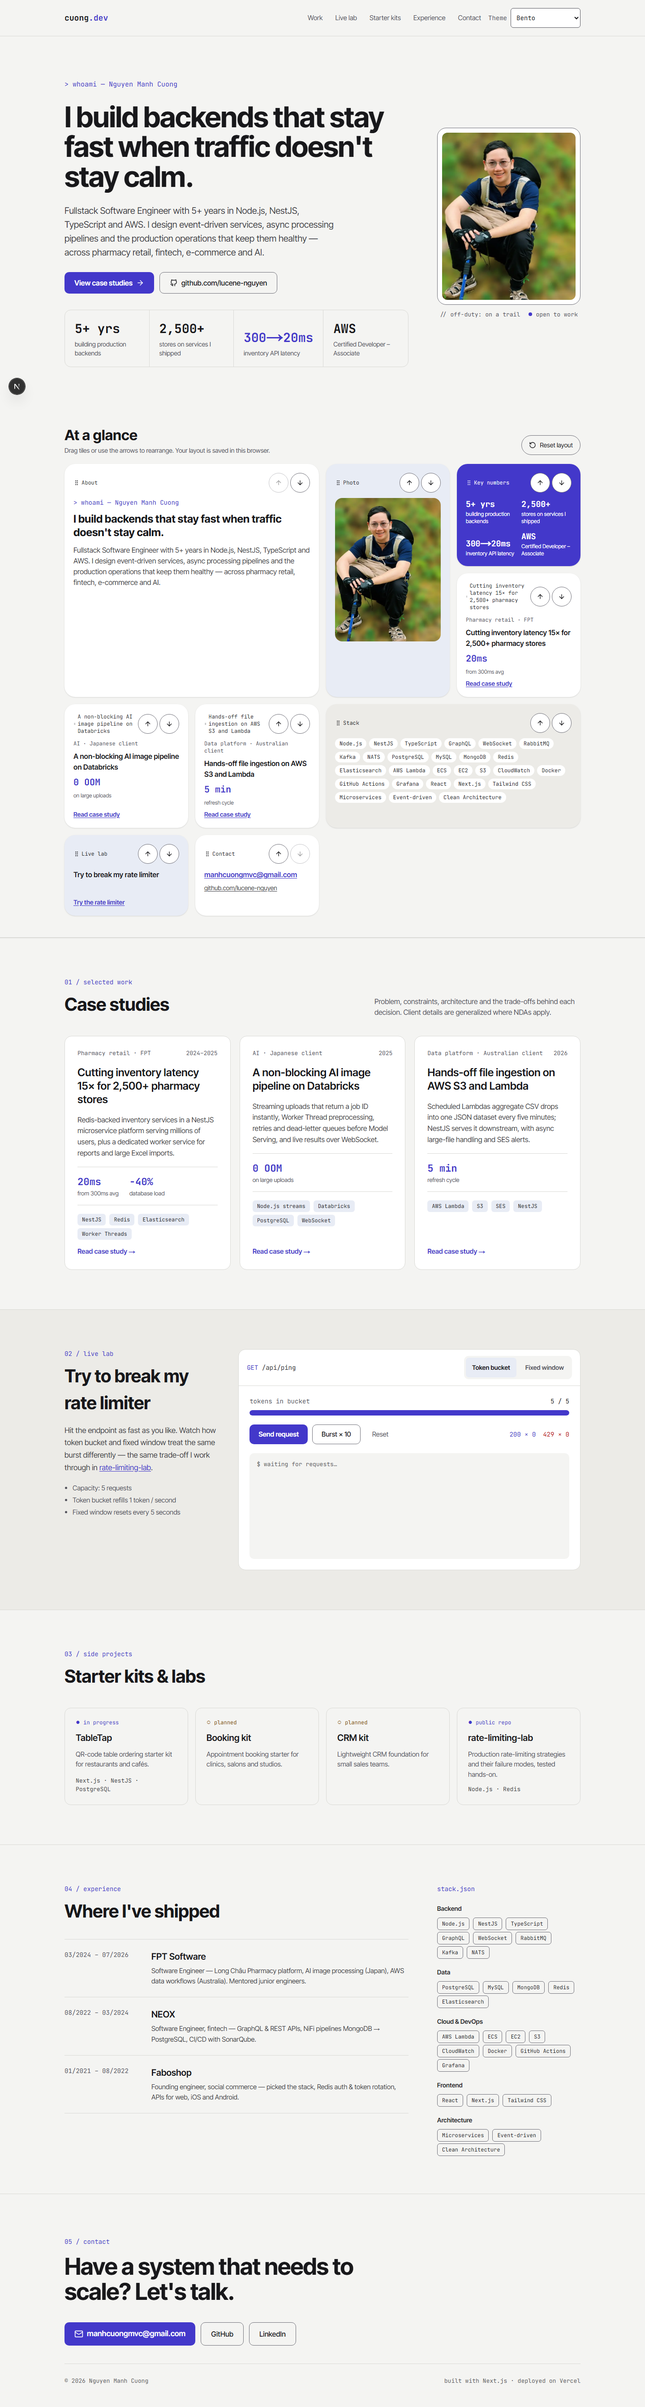
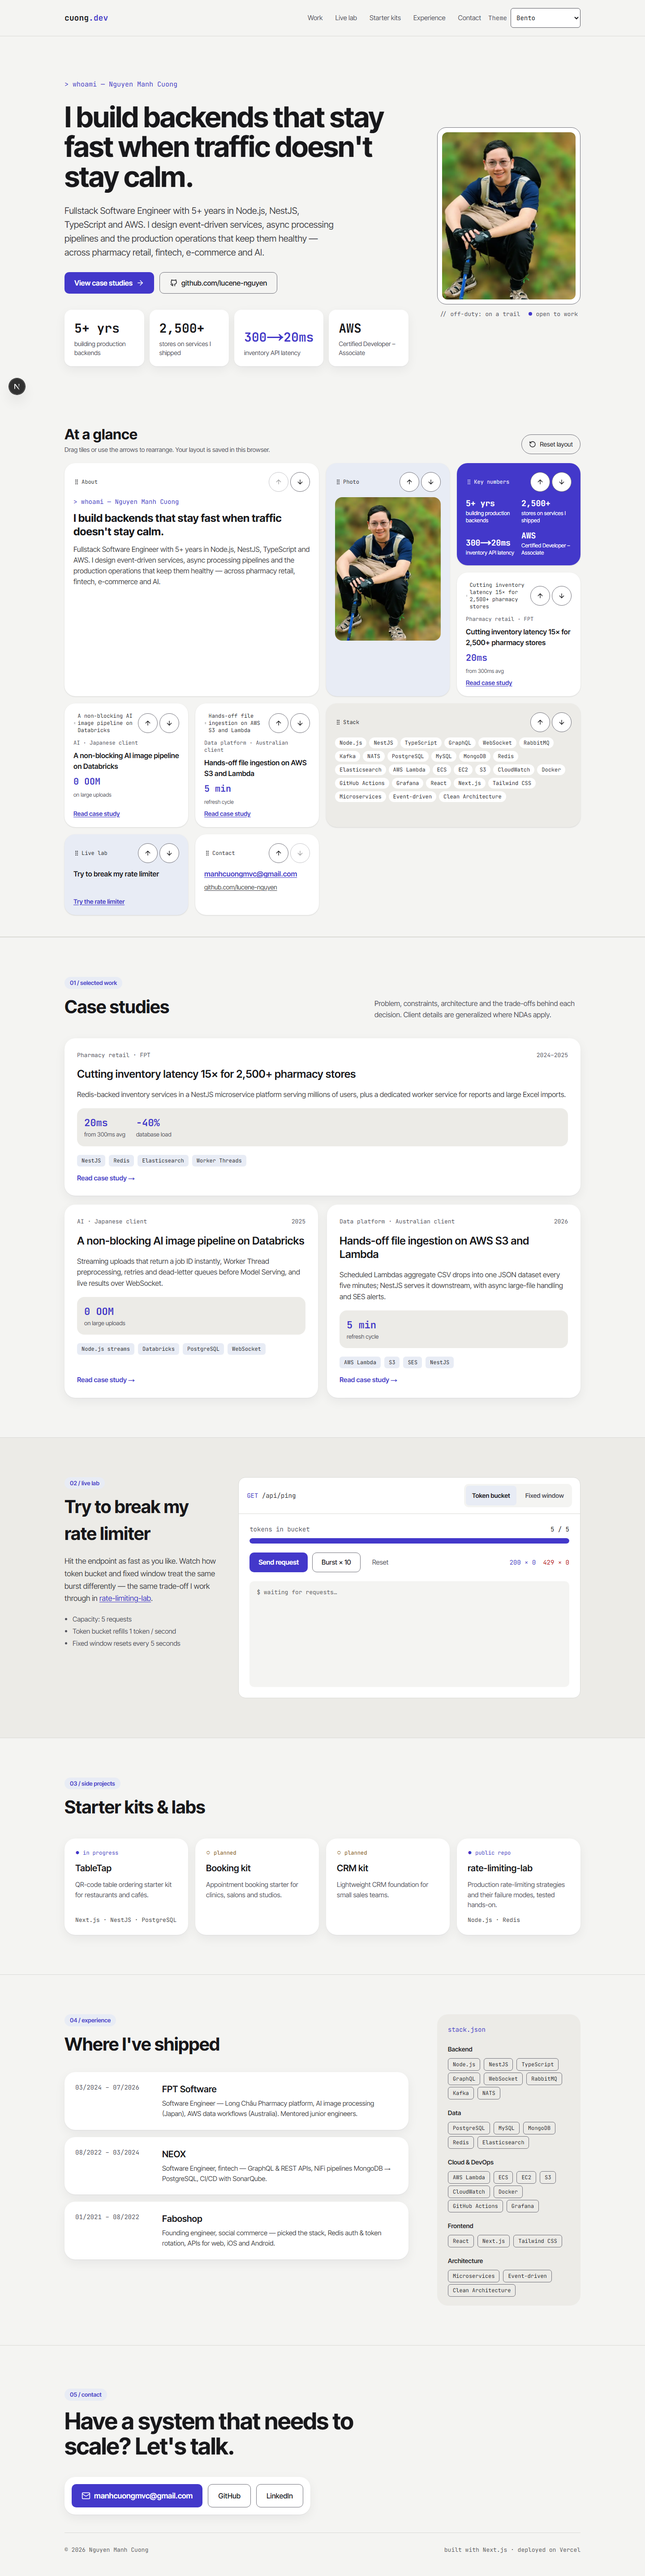
feat(ui): bento restyle - shared sections as tiles, wide feature case study, layout rules; screenshots

diff --git a/themes/bento/bento.css b/themes/bento/bento.css
@@ -1,0 +1,84 @@
+/* Tile language for the shared sections (design-system/portfolio-v3/pages/bento.md › Layout). */
+[data-theme="bento"] [data-part="eyebrow"] {
+  align-self: flex-start;
+  width: fit-content;
+  padding: 4px 12px;
+  border-radius: 999px;
+  background: var(--surface2);
+  font-family: var(--font-sans);
+  font-size: 13px;
+  font-weight: 600;
+}
+
+[data-theme="bento"]
+  :is(
+    [data-part="case-card"],
+    [data-part="kit"] > *,
+    [data-part="role"],
+    [data-part="stack"],
+    [data-part="contact-actions"],
+    [data-part="stat"]
+  ) {
+  border: 0 !important; /* beats the shared divider utilities */
+  border-radius: var(--theme-radius);
+  background: var(--surface);
+  box-shadow:
+    0 1px 2px rgb(24 24 27 / 0.06),
+    0 8px 24px rgb(24 24 27 / 0.06);
+}
+
+/* Case studies: 2-column mosaic, the first study is the wide feature tile. */
+[data-theme="bento"] #work [data-print="cards"] {
+  display: grid;
+  grid-template-columns: minmax(0, 1fr);
+  gap: 20px;
+}
+@media (min-width: 768px) {
+  [data-theme="bento"] #work [data-print="cards"] {
+    grid-template-columns: repeat(2, minmax(0, 1fr));
+  }
+  [data-theme="bento"] #work [data-part="case-card"]:first-child {
+    grid-column: span 2;
+  }
+}
+[data-theme="bento"] [data-part="case-metrics"] {
+  border: 0;
+  padding: 16px;
+  border-radius: 16px;
+  background: var(--bg-alt);
+}
+
+/* Hero key numbers: small tiles instead of a divided strip. */
+[data-theme="bento"] [data-part="stats"] {
+  gap: 12px;
+  border: 0;
+  overflow: visible;
+}
+[data-theme="bento"] [data-part="stat"] {
+  border-radius: 16px;
+}
+
+/* Experience: every role is a tile; the stack column is one bgAlt tile. */
+[data-theme="bento"] [data-part="roles"] {
+  display: flex;
+  flex-direction: column;
+  gap: 16px;
+}
+[data-theme="bento"] [data-part="role"] {
+  padding: 24px;
+}
+[data-theme="bento"] [data-part="stack"] {
+  align-self: flex-start;
+  padding: 24px;
+  background: var(--bg-alt);
+  box-shadow: none;
+}
+
+[data-theme="bento"] [data-part="kit"] > * {
+  padding: 24px;
+}
+[data-theme="bento"] [data-part="contact-actions"] {
+  width: fit-content;
+  max-width: 100%;
+  padding: 16px;
+}

diff --git a/e2e/bento.spec.ts b/e2e/bento.spec.ts
@@ -77,3 +77,36 @@ test("desktop: mixed sizes and axe clean", async ({ page }) => {
   const { violations } = await new AxeBuilder({ page }).exclude("nextjs-portal").analyze();
   expect(violations.map((v) => v.id)).toEqual([]);
 });
+
+test("shared sections are restyled as tiles", async ({ page }) => {
+  const cards = page.locator('#work [data-part="case-card"]');
+  await expect(cards.first()).toHaveCSS("border-top-left-radius", "24px");
+  await expect(cards.first()).toHaveCSS("border-top-width", "0px");
+  await expect(page.locator('#work [data-part="eyebrow"]')).toHaveCSS(
+    "border-top-left-radius",
+    "999px",
+  );
+  await expect(page.locator('[data-part="role"]').first()).toHaveCSS(
+    "border-top-left-radius",
+    "24px",
+  );
+  await expect(page.locator('[data-part="kit"] > *').first()).toHaveCSS(
+    "border-top-left-radius",
+    "24px",
+  );
+  await expect(page.locator('[data-part="stat"]').first()).toHaveCSS(
+    "border-top-left-radius",
+    "16px",
+  );
+  // Wide feature tile: the first study spans both columns at desktop width.
+  const [a, b] = await cards.evaluateAll((els) =>
+    els.slice(0, 2).map((e) => e.getBoundingClientRect()),
+  );
+  expect(a.width).toBeGreaterThan(b.width * 1.8);
+  // One column on phones.
+  await page.setViewportSize({ width: 375, height: 800 });
+  const widths = await cards.evaluateAll((els) =>
+    els.map((e) => Math.round(e.getBoundingClientRect().width)),
+  );
+  expect(new Set(widths).size).toBe(1);
+});

diff --git a/app/layout.tsx b/app/layout.tsx
@@ -11,6 +11,7 @@ import "./globals.css";
 // Theme stylesheets are static and scoped by [data-theme]: a stored theme is styled on first paint
 // (no restyle when its lazy chunk loads) and the Swiss print CV works without JS.
 import "@/themes/anime/anime.css";
+import "@/themes/bento/bento.css";
 import "@/themes/blueprint/blueprint.css";
 import "@/themes/cyberpunk/cyberpunk.css";
 import "@/themes/dashboard/dashboard.css";

diff --git a/e2e/checklist.spec.ts b/e2e/checklist.spec.ts
@@ -11,6 +11,7 @@ const THEMES = [
   "dashboard",
   "ide",
   "docs",
+  "bento",
 ];
 
 const overflow = (page: Page) =>

diff --git a/design-system/portfolio-v3/pages/bento.md b/design-system/portfolio-v3/pages/bento.md
@@ -38,3 +38,15 @@ Every tile colour is a token whose text pairs are tested (registry tests: text t
 - Tiles: About (2×2), Photo (1×2), Key numbers (accent), one per case study, Stack (2×1), Live lab, Contact.
 - Reorder: drag a tile onto another, or use the arrow buttons (focus stays on the pressed button; a status line announces the new position). Order saved in localStorage; "Reset layout" restores the default.
 - < 768px: one column.
+
+## Layout
+Searched (UI round 1): `"portfolio bento grid" --domain landing` → **Bento Grid Showcase** (verified: Hero > Bento grid > detail cards > CTA; mobile stack; cards usable without hover; final state under reduced motion) and **Portfolio Grid** (neutral ground, minimal accent). `"card grid scannable hierarchy" --domain ux` → Heading Hierarchy, Font Size Scale (verified; the breadcrumb hit is off-topic for a one-level site and ignored).
+
+Shared sections (below the "At a glance" grid) speak the same tile language:
+- Every block is a tile: 24px radius (`--theme-radius`), no border, soft shadow, white on the #F4F4F2 ground.
+- Eyebrows are small pill chips (surface2 ground, accent text).
+- Case studies: a 2-column mosaic ≥ 768px; the first study is the 2×1 feature tile, the other two sit side by side below it (a 1×2 tile left half the tile empty). One column below 768px.
+- Hero key numbers: separate small tiles (2×2 on narrow screens), not a divided strip.
+- Experience: each role is a tile; the stack column is one bgAlt tile.
+- Kits: tiles, same radius and shadow. Contact actions sit in one tile.
+- Rejected: hover scale/tilt (motion without meaning), staggered entrance (nothing animates under reduced motion; tiles render in their final state always).

diff --git a/docs/ui-round-1.md b/docs/ui-round-1.md
@@ -21,6 +21,6 @@ Per theme (item 2): ui-ux-pro-max `--domain landing` + `--domain ux` → "## Lay
 | 2 neo-brutalism | todo | `fix/ui-neo-brutalism` |
 | 2 anime | todo | `fix/ui-anime` |
 | 2 3d-world | todo | `fix/ui-3d-world` |
-| 2 swiss-minimal | not in owner's order — ask | — |
+| 2 swiss-minimal | todo (after 3d-world, owner OK) | `fix/ui-swiss-minimal` |
 
 Resume: start at the first `todo` row; branch from `develop`.
